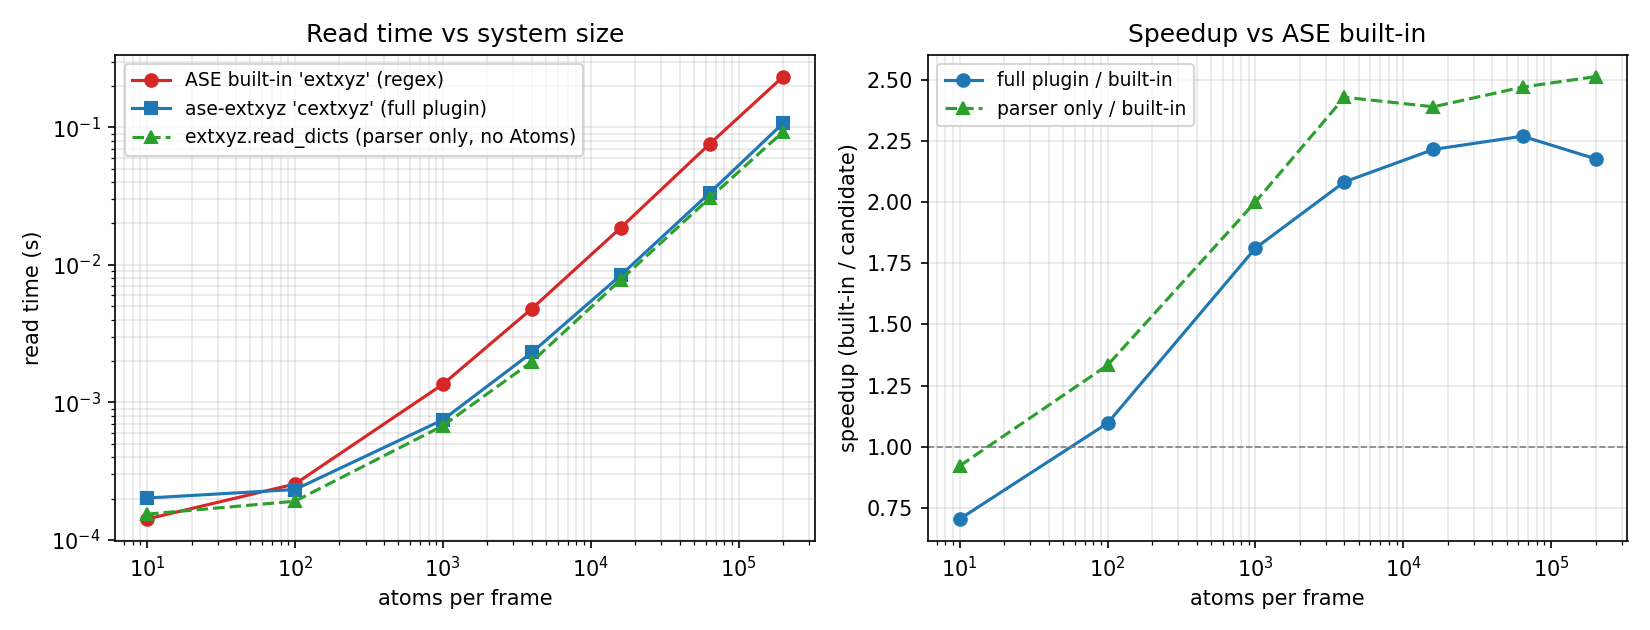
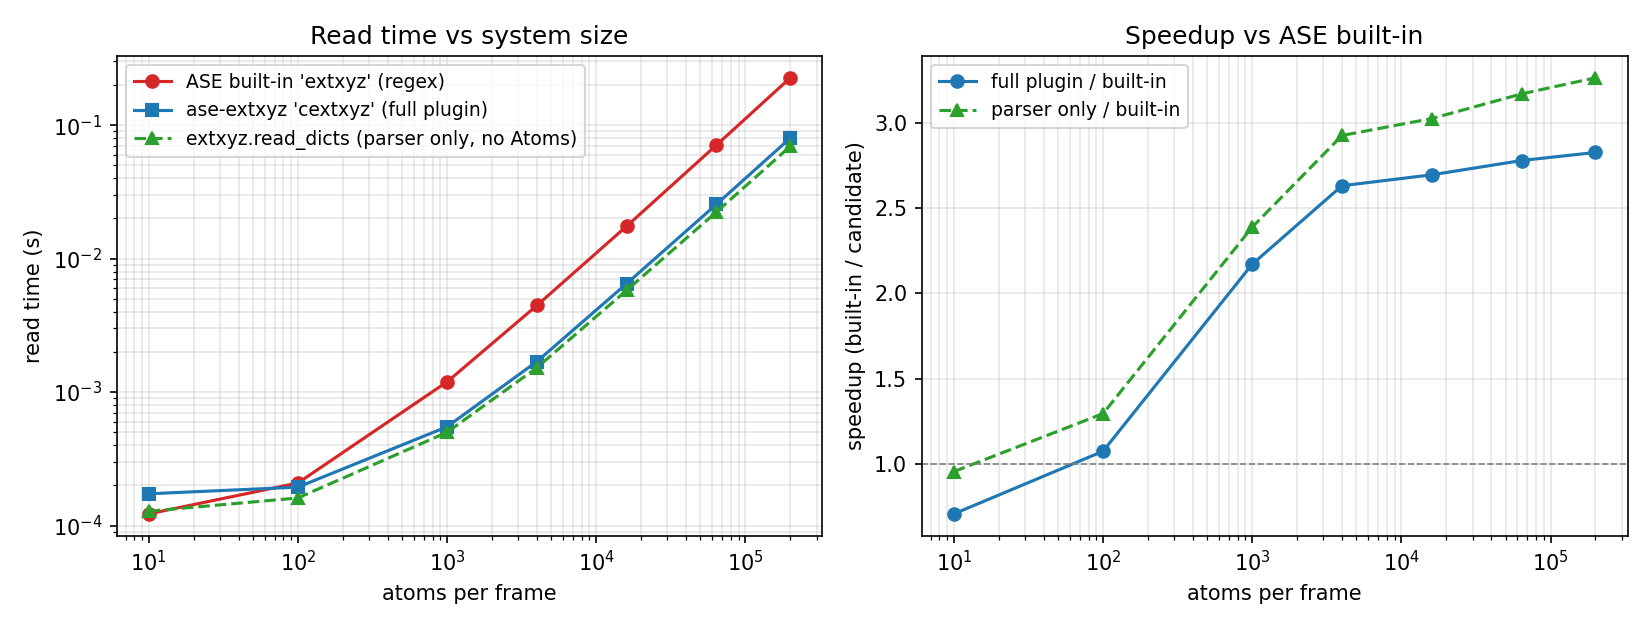
Merge pull request #35 from libAtoms/perf/string-buffer
perf: contiguous fixed-width buffer for per-atom string columns

Pull request: perf: contiguous fixed-width buffer for per-atom string columns
## What

A per-atom string column was stored as `char **` — an array of N pointers, each a separate `malloc`+`strcpy` on read, then decoded one-by-one in a Python loop in `c_to_py_dict`. This replaces it with **one contiguous fixed-width buffer** (numpy `S{width}` layout):

- **C read:** a single `calloc` per column (growing the cell width on demand), one `memcpy` per field — no per-atom `malloc`.
- **Python:** the whole column becomes a numpy array via one `np.frombuffer(...).astype(str)` instead of a per-atom decode loop.

Measured **~18% faster on a 200k-atom read** (clean A/B on the same machine: read_dicts 84.9 → 69.3 ms; 64k: 27.2 → 22.1 ms). The per-atom `malloc` count and the Python decode loop dominated at scale. Combined with the earlier copy-removal (#32), the benchmark table moves from ~2.2×→**2.8×** (plugin) and ~2.5×→**3.2×** (parser) over ASE's built-in; README table + plot refreshed.

## How — width carried in `n_in_row`, no struct change

`DictEntry.n_in_row` was unused for finalized per-atom columns, so it carries the cell width — **negated** (`-width`) as the "contiguous" marker. (A positive width would be ambiguous: `parse_tree` leaves a non-negative `n_in_row` item-count on finalized scalar *info* entries, which would make `free_data` skip the inner-string free — a leak I hit and fixed during development.) Every string consumer dispatches on the sign:

- `extxyz_read_ll` fill (contiguous, grow-on-demand)
[…]

diff --git a/libextxyz/extxyz.c b/libextxyz/extxyz.c
@@ -471,12 +471,15 @@ void *tree_to_dict(cleri_parse_t *tree, char *error_message) {
 }
 
 
-void free_data(void *data, enum data_type data_t, int nrows, int ncols) {
+// `width` is the entry's n_in_row: <0 means a string column is one contiguous
+// fixed-width buffer (free once); >=0 is the legacy char** (free each cell —
+// covers info strings, whose n_in_row is a non-negative parse-time item count).
+void free_data(void *data, enum data_type data_t, int nrows, int ncols, int width) {
     if (!data) {
         return;
     }
-    if (data_t == data_s) {
-        // free allocated strings inside array
+    if (data_t == data_s && width >= 0) {
+        // legacy char** : free each individually-allocated string
         nrows = nrows == 0 ? 1 : nrows;
         ncols = ncols == 0 ? 1 : ncols;
         for (int ri=0; ri < nrows; ri++) {
@@ -485,6 +488,7 @@ void free_data(void *data, enum data_type data_t, int nrows, int ncols) {
         }
         }
     }
+    // contiguous string buffers (width>0) and all numeric data: one free
     free(data);
 }
 
@@ -497,7 +501,7 @@ void free_dict(DictEntry *dict) {
             free(entry->key);
         }
         free_DataLinkedList(entry->first_data_ll, entry->data_t, 1);
-        free_data(entry->data, entry->data_t, entry->nrows, entry->ncols); 
+        free_data(entry->data, entry->data_t, entry->nrows, entry->ncols, entry->n_in_row);
 
         next_entry = entry->next;
         free(entry);
@@ -510,6 +514,42 @@ void free_dict(DictEntry *dict) {
 void free_partial_dicts(DictEntry **info, DictEntry **arrays) {
     if (info && *info) { free_dict(*info); *info = 0; }
     if (arrays && *arrays) { free_dict(*arrays); *arrays = 0; }
+}
+
+// Initial bytes-per-cell for a per-atom string column. Grows on demand.
+#define STR_CELL_W0 8
+
+// Store one string field into a per-atom string column held as a single
+// contiguous fixed-width buffer (numpy 'S{width}' layout). `*data` is the column
+// buffer; `*n_in_row` holds the NEGATED cell width (it marks the column as
+// contiguous: n_in_row < 0, width = -n_in_row). A negative sentinel is used
+// because parse_tree leaves a positive n_in_row on finalized scalar info entries
+// (it counts data items), so width>0 would be ambiguous. Cells are filled in
+// increasing index order, so `filled` == `cell_index`. If the field doesn't fit
+// the current width, the buffer is grown (calloc wider, copy the already-filled
+// cells, free the old) — rare for typical short tokens. calloc zero-fills, so
+// each cell stays NUL-padded (a valid C string for the writer/Fortran paths).
+// Returns 0 on success, 1 on allocation failure.
+static int store_str_cell(char **data, int *n_in_row, size_t total_cells,
+                          size_t cell_index, size_t filled,
+                          const char *pf, size_t len) {
+    size_t W = (size_t)(-(*n_in_row));   // n_in_row holds -width
+    if (len + 1 > W) {
+        size_t newW = (len + 1 + 7) & ~(size_t)7;   // round up to a multiple of 8
+        char *nb = (char *) calloc(total_cells, newW);
+        if (! nb) {
+            return 1;
+        }
+        for (size_t k = 0; k < filled; k++) {
+            memcpy(nb + k*newW, *data + k*W, W);
+        }
+        free(*data);
+        *data = nb;
+        *n_in_row = -(int) newW;
+        W = newW;
+    }
+    memcpy(*data + cell_index*W, pf, len);
+    return 0;
 }
 
 void print_dict(DictEntry *dict) {
@@ -760,10 +800,13 @@ int extxyz_read_ll(cleri_grammar_t *kv_grammar, FILE *fp, int *nat, DictEntry **
                 break;
             case 'S':
                 cur_array->data_t = data_s;
-                // calloc (not malloc) so unfilled slots are NULL: if parsing
-                // errors partway through, free_dict can safely free(NULL) the
-                // not-yet-populated string pointers.
-                cur_array->data = calloc((*nat)*col_num, sizeof(char *));
+                // One contiguous fixed-width buffer for the whole column (not an
+                // array of N malloc'd pointers). n_in_row carries the NEGATED
+                // cell width and marks the column as contiguous (n_in_row < 0);
+                // it grows on demand during the fill. calloc zero-fills so cells
+                // are NUL-padded.
+                cur_array->n_in_row = -STR_CELL_W0;
+                cur_array->data = calloc((size_t)(*nat)*col_num, STR_CELL_W0);
                 this_re = SIMPLESTRING_RE; // "\\S+";
                 break;
             default:
@@ -865,8 +908,18 @@ int extxyz_read_ll(cleri_grammar_t *kv_grammar, FILE *fp, int *nat, DictEntry **
                 } else if (cur_array->data_t == data_b) {
                     ((int *)(cur_array->data))[li*nc + col_i] = (pf[0] == 'T');
                 } else if (cur_array->data_t == data_s) {
-                    ((char **)(cur_array->data))[li*nc + col_i] = (char *) malloc((strlen(pf)+1)*sizeof(char));
-                    strcpy(((char **)(cur_array->data))[li*nc+col_i], pf);
+                    // field bounds from the PCRE2 capture (pf is NUL-terminated
+                    // at line[ovector[2*field_i+1]] above)
+                    size_t len = (size_t)(ovector[2*field_i+1] - ovector[2*field_i]);
+                    size_t cell = (size_t)(li*nc + col_i);
+                    if (store_str_cell((char **)&cur_array->data, &cur_array->n_in_row,
+                                       (size_t)(*nat)*nc, cell, cell, pf, len)) {
+                        sprintf(error_message, "ERROR: out of memory storing string on atom line %d", li);
+                        pcre2_match_data_free(match_data); pcre2_code_free(re);
+                        free(line); free(re_str);
+                        free_partial_dicts(info, arrays);
+                        return 0;
+                    }
                 }
                 field_i++;
             }
@@ -1189,8 +1242,13 @@ int extxyz_write_ll_fmt(FILE *fp, int nat, DictEntry *info, DictEntry *arrays,
                     break;
                 case data_s:
                     for (int i_col=0; i_col < ncols; i_col++) {
-                        // assuming simple string, no need for quotes
-                        fprintf(fp, FMT_S, ((char **)(entry->data))[i_at*ncols+i_col]);
+                        // assuming simple string, no need for quotes.
+                        // n_in_row>0: contiguous fixed-width buffer (read path /
+                        // Fortran); 0: legacy char** (Python write via py_to_c_dict)
+                        const char *s = (entry->n_in_row < 0)
+                            ? (const char *)entry->data + (size_t)(i_at*ncols+i_col)*(-entry->n_in_row)
+                            : ((char **)(entry->data))[i_at*ncols+i_col];
+                        fprintf(fp, FMT_S, s);
                         if (i_col < ncols-1) {
                             fprintf(fp, " ");
                         }

diff --git a/tests/test_string_buffer.py b/tests/test_string_buffer.py
@@ -1,0 +1,69 @@
+"""Per-atom string columns read correctly regardless of internal storage.
+
+These guard the contiguous fixed-width-buffer representation of string columns
+(a perf change to the read path): behaviour must be identical to the old
+per-pointer storage, including multi-column string properties and strings longer
+than the initial cell width (which force the buffer to grow). The files are
+written as text so the tests exercise only the read path.
+"""
+import numpy as np
+import pytest
+
+from extxyz import Frame, read_dicts, write_dicts
+
+
+def _read_text(tmp_path, body, use_cextxyz):
+    p = tmp_path / 'sb.xyz'
+    p.write_text(body)
+    return read_dicts(p, use_cextxyz=use_cextxyz)
+
+
[email redacted]("use_cextxyz", [False, True])
+def test_species_read(tmp_path, use_cextxyz):
+    body = ("4\n"
+            'Lattice="10 0 0 0 10 0 0 0 10" Properties=species:S:1:pos:R:3\n'
+            "H 0 0 0\nC 1 1 1\nN 2 2 2\nO 3 3 3\n")
+    f = _read_text(tmp_path, body, use_cextxyz)
+    assert list(f.arrays['species']) == ['H', 'C', 'N', 'O']
+    np.testing.assert_allclose(f.arrays['pos'][3], [3, 3, 3])
+
+
+def test_long_string_read_forces_width_growth(tmp_path):
+    """A per-atom string far longer than any small initial cell width must be
+    preserved in full by the C parser (exercises the buffer-grow path). Tested
+    at the low level to bypass the structured-array dtype width cap in the
+    high-level read path on master."""
+    from extxyz import cextxyz
+    longlabel = "verylongatomlabel_0123456789ABCDEF"
+    p = tmp_path / 'long.xyz'
+    p.write_text("3\nProperties=label:S:1:pos:R:3\n"
+                 f"H 0 0 0\n{longlabel} 1 1 1\nO 2 2 2\n")
+    fp = cextxyz.cfopen(str(p), 'r')
+    try:
+        nat, info, arrays = cextxyz.read_frame_dicts(fp)
+    finally:
+        cextxyz.cfclose(fp)
+    assert list(arrays['label']) == ['H', longlabel, 'O']
+
+
[email redacted]("use_cextxyz", [False, True])
+def test_multicolumn_string_read(tmp_path, use_cextxyz):
+    """A 2-column string property exercises the matrix (nrows>0) string path."""
+    body = ("3\n"
+            "Properties=tag:S:2:pos:R:3\n"
+            "a bb 0 0 0\nccc d 1 1 1\ne ffff 2 2 2\n")
+    f = _read_text(tmp_path, body, use_cextxyz)
+    assert f.arrays['tag'].shape == (3, 2)
+    assert [list(r) for r in f.arrays['tag']] == [['a', 'bb'], ['ccc', 'd'], ['e', 'ffff']]
+
+
+def test_species_roundtrip_short(tmp_path):
+    """Write+read round-trip for the common short-1D-string case (C backend)."""
+    f = Frame(natoms=4, cell=np.eye(3) * 10, pbc=np.array([True] * 3), info={},
+              arrays={'species': np.array(['H', 'C', 'N', 'O']),
+                      'pos': np.arange(12, dtype=float).reshape(4, 3)})
+    p = tmp_path / 'rt.xyz'
+    write_dicts(p, [f], use_cextxyz=True)
+    back = read_dicts(p, use_cextxyz=True)
+    assert list(back.arrays['species']) == ['H', 'C', 'N', 'O']
+    np.testing.assert_allclose(back.arrays['pos'], f.arrays['pos'])

diff --git a/python/extxyz/cextxyz.py b/python/extxyz/cextxyz.py
@@ -71,6 +71,19 @@ extxyz.print_dict.args = [Dict_entry_ptr]
 
 extxyz.free_dict.args = [Dict_entry_ptr]
 
+
+def _read_contiguous_strings(addr, width, count):
+    """Read a per-atom string column stored by the C parser as one contiguous
+    fixed-width buffer (``n_in_row`` == width > 0) into a numpy unicode array.
+
+    One ``np.frombuffer`` + ``astype`` (numpy-C decode) replaces the former
+    per-cell Python decode loop. ``string_at`` copies the bytes, so the result
+    owns its data and is safe after the C buffer is freed.
+    """
+    raw = ctypes.string_at(addr, count * width)
+    return np.frombuffer(raw, dtype=f'S{width}', count=count).astype(str)
+
+
 def c_to_py_dict(c_dict, deepcopy=False):
     """
     Convert DictEntry `c_dict` to a Python dict
@@ -94,16 +107,24 @@ def c_to_py_dict(c_dict, deepcopy=False):
             if node.nrows == 0:
                 # vector (1D array)
                 if node.data_t == DATA_S:
-                    value = np.array([data_ptr[i].decode('utf-8')
-                                    for i in range(node.ncols)])
+                    if node.n_in_row < 0:
+                        value = _read_contiguous_strings(node.data, -node.n_in_row,
+                                                         node.ncols)
+                    else:
+                        value = np.array([data_ptr[i].decode('utf-8')
+                                        for i in range(node.ncols)])
                 else:
                     value = np.ctypeslib.as_array(data_ptr, [node.ncols])
             else:
                 # matrix (2D array)
                 if node.data_t == DATA_S:
-                    value = np.array([data_ptr[i].decode('utf-8')
-                                      for i in range(node.nrows*node.ncols)])
-                    value = value.reshape(node.nrows, node.ncols)
+                    n = node.nrows * node.ncols
+                    if node.n_in_row < 0:
+                        value = _read_contiguous_strings(node.data, -node.n_in_row,
+                                                         n).reshape(node.nrows, node.ncols)
+                    else:
+                        value = np.array([data_ptr[i].decode('utf-8')
+                                          for i in range(n)]).reshape(node.nrows, node.ncols)
                 else:
                     value = np.ctypeslib.as_array(data_ptr,
                                                 [node.nrows, node.ncols])

diff --git a/README.md b/README.md
@@ -57,13 +57,13 @@ forces, and a couple of `info` keys):
 
 | atoms / frame | file size | ASE built-in `extxyz` | `cextxyz` plugin | `extxyz.read_dicts` (no Atoms) | speedup, plugin / built-in | speedup, parser / built-in |
 |--:|--:|--:|--:|--:|--:|--:|
-|     10 |   0.00 MB | 0.142 ms | 0.202 ms | 0.154 ms | 0.70× | 0.92× |
-|    100 |   0.01 MB | 0.255 ms | 0.233 ms | 0.191 ms | 1.10× | 1.33× |
-|  1 000 |   0.11 MB | 1.355 ms | 0.748 ms | 0.677 ms | 1.81× | 2.00× |
-|  4 000 |   0.44 MB | 4.805 ms | 2.306 ms | 1.978 ms | 2.08× | 2.43× |
-| 16 000 |   1.74 MB | 18.7 ms  | 8.42 ms  | 7.80 ms  | 2.22× | 2.39× |
-| 64 000 |   6.98 MB | 76.0 ms  | 33.5 ms  | 30.7 ms  | 2.27× | 2.47× |
-|200 000 |  21.80 MB |233.2 ms  |107.1 ms  | 92.7 ms  | 2.18× | 2.51× |
+|     10 |   0.00 MB | 0.122 ms | 0.173 ms | 0.128 ms | 0.71× | 0.95× |
+|    100 |   0.01 MB | 0.208 ms | 0.194 ms | 0.161 ms | 1.07× | 1.29× |
+|  1 000 |   0.11 MB | 1.193 ms | 0.550 ms | 0.500 ms | 2.17× | 2.39× |
+|  4 000 |   0.44 MB | 4.455 ms | 1.694 ms | 1.523 ms | 2.63× | 2.92× |
+| 16 000 |   1.74 MB | 17.5 ms  | 6.50 ms  | 5.79 ms  | 2.69× | 3.02× |
+| 64 000 |   6.98 MB | 70.9 ms  | 25.5 ms  | 22.4 ms  | 2.78× | 3.17× |
+|200 000 |  21.80 MB |226.2 ms  | 80.1 ms  | 69.3 ms  | 2.83× | 3.26× |
 
 ![Read-time benchmark](benchmarks/read_speedup.png)
 
@@ -71,13 +71,20 @@ Below ~100 atoms per frame the per-call setup (file open, PCRE2 JIT
 compile, libcleri grammar walk for the comment line) is larger than
 the regex match itself, so the built-in is faster on tiny files. From
 ~1 000 atoms upwards the parser dominates and `cextxyz` runs at a
-steady ~2.2× over the built-in end-to-end (~2.5× for the parser
+steady ~2.8× over the built-in end-to-end (~3.2× for the parser
 alone). The remaining gap between the two cextxyz curves is the
 `Frame → Atoms` translation in the ASE plugin layer; we shrink it by
 aliasing the parser's per-atom buffers directly into `atoms.arrays`
 (so `Atoms.__init__` doesn't memcpy positions) and vectorising the
 species → atomic-number lookup with `np.unique` instead of a per-atom
 dict walk.
+
+The parser-side numbers also reflect two later read-path changes:
+dropping a redundant per-frame array copy, and storing each per-atom
+string column as one contiguous fixed-width buffer (so the C reader
+does a single allocation per column instead of one `malloc` per atom,
+and Python decodes the whole column with a single `np.frombuffer`
+instead of a per-atom loop) — worth ~18% on a 200k-atom read.
 
 The big parser-side lever was PCRE2 JIT (`pcre2_jit_compile(re,
 PCRE2_JIT_COMPLETE)` after `pcre2_compile`); a `sample`-based profile